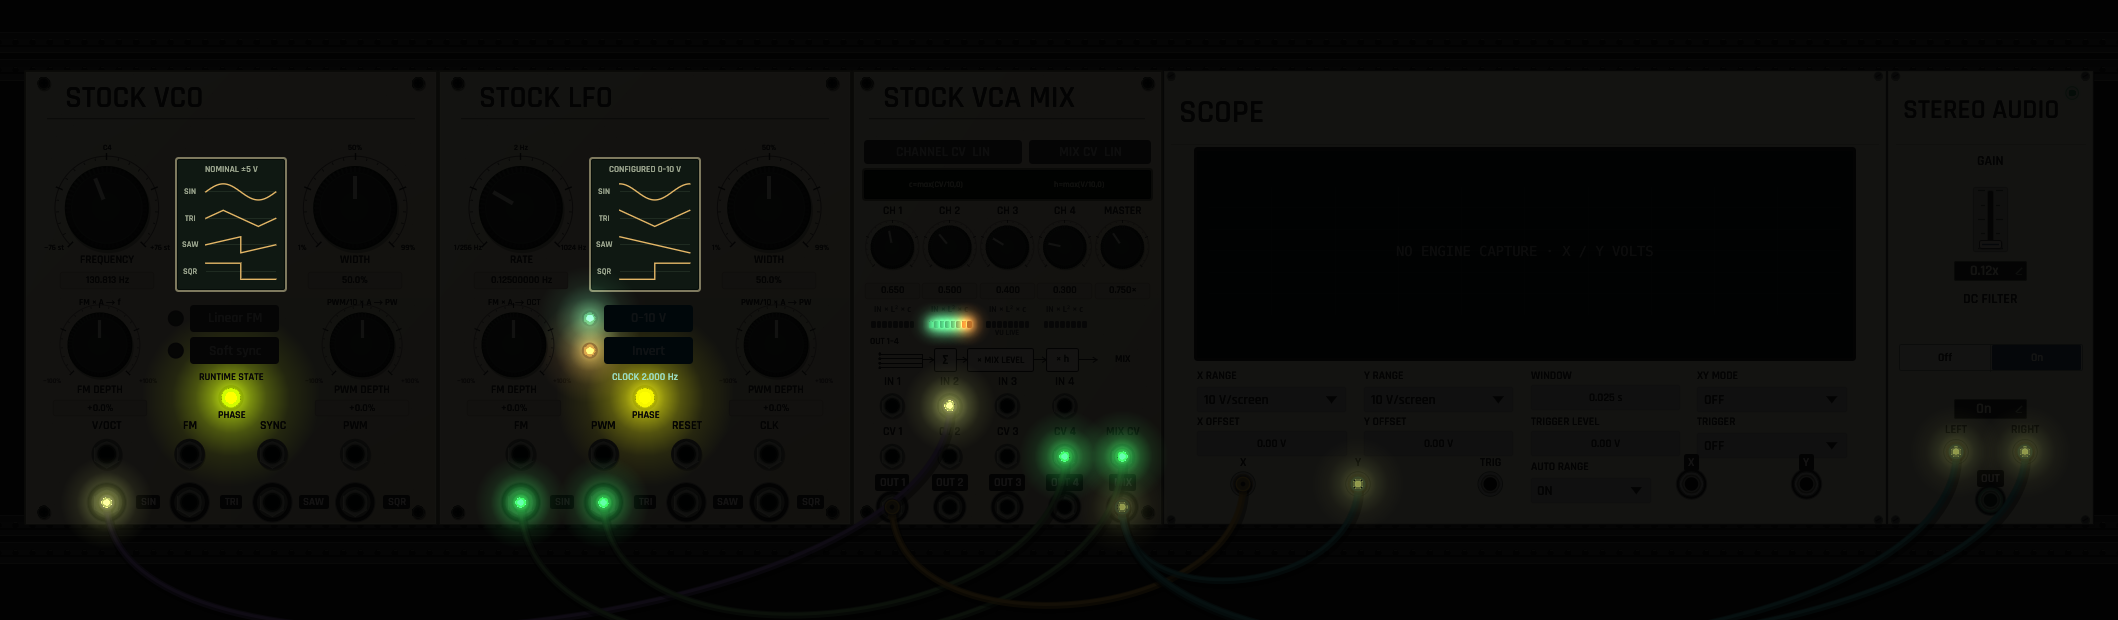
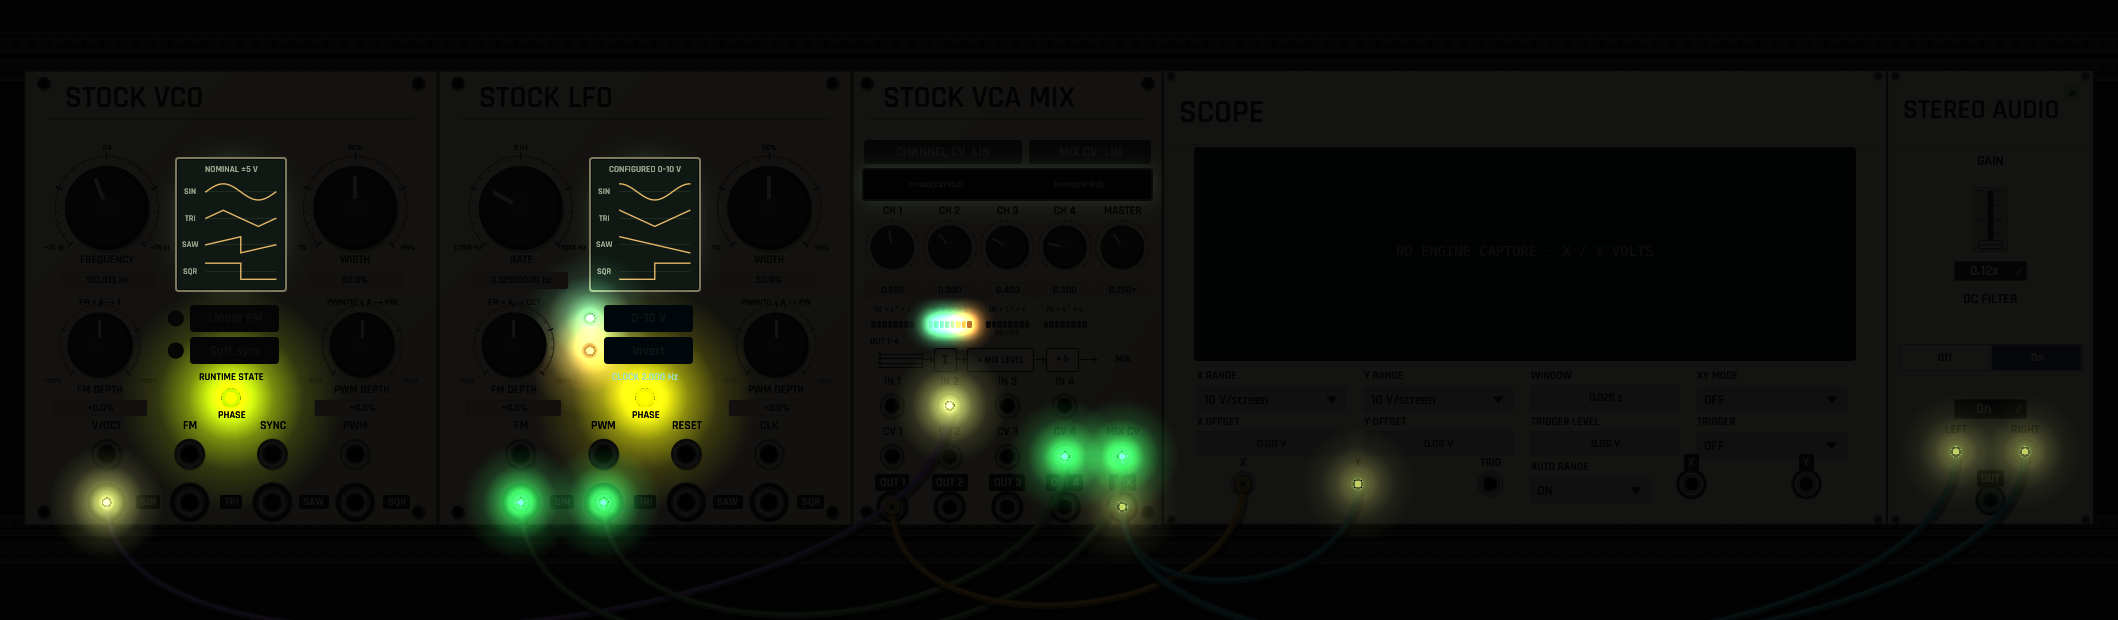
Enrich lights-off glow for module lamps and displays

diff --git a/crates/openpatch-desktop/src/lighting.rs b/crates/openpatch-desktop/src/lighting.rs
@@ -120,11 +120,31 @@ impl Default for RoomLighting {
 impl RoomLighting {
     fn bloom_amount(&self) -> f32 {
         // Keep daytime lamps restrained; a dark room reveals their light spill.
-        0.38 + 1.22 * (1.0 - self.amount).powf(1.5)
+        0.38 + 2.62 * (1.0 - self.amount).powf(1.5)
     }
 
     fn bloom_diffusion(&self) -> f32 {
-        1.0 + 0.65 * (1.0 - self.amount).powf(1.5)
+        1.0 + 1.15 * (1.0 - self.amount).powf(1.5)
+    }
+
+    /// Static display illumination, distinct from signal-driven lamps. The
+    /// halo is bounded in screen points, so wide displays do not wash out a rack.
+    pub(crate) fn screen_glow(&self, painter: &egui::Painter, rect: Rect, zoom: f32) {
+        let start = next(painter);
+        let corner = (rect.width().min(rect.height()) * 0.5).max(1.0);
+        let dark = (1.0 - self.amount).powf(1.5);
+        bloom(
+            painter,
+            rect,
+            Color32::from_rgb(104, 155, 119),
+            0.035 + 0.30 * dark,
+            (1.5 + 3.5 * dark) * zoom / corner,
+        );
+        self.preserve(painter, start);
+    }
+
+    pub(crate) fn setting_glow(&self, color: Color32, strength: f32) -> Color32 {
+        additive(color, strength * self.bloom_amount())
     }
 
     pub(crate) fn amount(&self) -> f32 {
@@ -413,6 +433,43 @@ mod tests {
             assert!(room_energy[1][light] > room_energy[0][light]);
             assert!(room_extent[2][light] > room_extent[1][light]);
             assert!(room_extent[1][light] > room_extent[0][light]);
+        }
+    }
+
+    #[test]
+    fn screen_spill_is_bounded_preserved_and_stronger_in_a_dark_room() {
+        for size in [vec2(290.0, 49.0), vec2(100.0, 240.0), vec2(250.0, 25.0)] {
+            let mut energy = Vec::new();
+            for room in [1.0, 0.0] {
+                let ctx = egui::Context::default();
+                let mut lighting = RoomLighting::default();
+                lighting.set(room);
+                let rect = Rect::from_min_size(Pos2::ZERO, size);
+                let output = ctx.run(egui::RawInput::default(), |ctx| {
+                    let painter = ctx.layer_painter(egui::LayerId::background());
+                    let start = lighting.begin(&painter);
+                    lighting.screen_glow(&painter, rect, 1.0);
+                    lighting.finish(&painter, start);
+                });
+                let egui::Shape::Mesh(mesh) = &output.shapes[0].shape else {
+                    panic!("display halo must be one bounded mesh")
+                };
+                assert_eq!(mesh.vertices.len(), 120);
+                assert!(mesh.vertices.iter().all(|v| v.color.a() == 0));
+                let bounds = mesh.calc_bounds();
+                assert!(bounds.width() <= size.x + 52.1);
+                assert!(bounds.height() <= size.y + 52.1);
+                energy.push(
+                    mesh.vertices
+                        .iter()
+                        .map(|v| u32::from(v.color.g()))
+                        .sum::<u32>(),
+                );
+            }
+            assert!(
+                energy[1] > energy[0] * 4,
+                "room-off screen spill must stay visible"
+            );
         }
     }
 

diff --git a/crates/openpatch-desktop/src/rack.rs b/crates/openpatch-desktop/src/rack.rs
@@ -14047,6 +14047,14 @@ mod tests {
                             texts.iter().any(|(text, _)| text
                                 == if kind == "ladder_vcf" && name == "cutoff" {
                                     "POLE FREQUENCY"
+                                } else if matches!(kind, "multi_vco" | "multi_lfo")
+                                    && name == "fm_amount"
+                                {
+                                    "FM ±100%"
+                                } else if matches!(kind, "multi_vco" | "multi_lfo")
+                                    && name == "pwm_amount"
+                                {
+                                    "PWM ±100%"
                                 } else if kind == "stock_vco" {
                                     stock_vco_parameter_label(name)
                                 } else if kind == "stock_lfo" {
@@ -14251,10 +14259,10 @@ mod tests {
     #[test]
     fn multi_vco_value_editors_use_hz_and_percentages_without_clock_ratio_conversion() {
         for (name, position, text, scale, expected) in [
-            ("frequency", pos2(99.0, 169.0), "440", 1.0, 440.0),
-            ("pulse_width", pos2(249.0, 169.0), "35", 100.0, 0.35),
-            ("fm_amount", pos2(99.0, 269.0), "-25", 100.0, -0.25),
-            ("pwm_amount", pos2(249.0, 269.0), "75", 100.0, 0.75),
+            ("frequency", pos2(99.0, 186.0), "440", 1.0, 440.0),
+            ("pulse_width", pos2(249.0, 186.0), "35", 100.0, 0.35),
+            ("fm_amount", pos2(99.0, 281.0), "-25", 100.0, -0.25),
+            ("pwm_amount", pos2(249.0, 281.0), "75", 100.0, 0.75),
         ] {
             let ctx = egui::Context::default();
             let mut rack = Rack::default();
@@ -18174,7 +18182,7 @@ mod tests {
                 });
             }
             frame(&ctx, &mut rack, &patch, 0.0, vec![]);
-            let value = pos2(99.0, 169.0);
+            let value = pos2(99.0, 186.0);
             for (time, pressed) in [(1.0, true), (1.04, false)] {
                 frame(
                     &ctx,
@@ -20028,7 +20036,7 @@ mod tests {
             ),
             (
                 "multi_vco",
-                pos2(249.0, 169.0),
+                pos2(249.0, 186.0),
                 "25 + 10",
                 "pulse_width",
                 0.35,
@@ -20044,7 +20052,7 @@ mod tests {
             ),
             (
                 "multi_lfo",
-                pos2(99.0, 169.0),
+                pos2(99.0, 186.0),
                 "1 + 1",
                 "frequency",
                 4.0,

diff --git a/crates/openpatch-desktop/src/atlas_voice_panel.rs b/crates/openpatch-desktop/src/atlas_voice_panel.rs
@@ -136,7 +136,8 @@ impl AtlasVoicePaint<'_> {
             }
         }
     }
-    fn screen(&self, rect: Rect) {
+    fn screen(&self, rect: Rect, lighting: &crate::lighting::RoomLighting) {
+        lighting.screen_glow(self.painter, rect, self.zoom);
         self.painter.rect_filled(
             rect.expand(3.0 * self.unit()),
             4.0 * self.unit(),
@@ -531,7 +532,7 @@ fn paint_atlas_voice_configuration(
     let amber = Color32::from_rgb(229, 183, 103);
     let start = crate::lighting::next(painter);
     if node.kind == "adsr" {
-        draw.screen(draw.rect(160.0, 148.0, 100.0, 239.0));
+        draw.screen(draw.rect(160.0, 148.0, 100.0, 239.0), lighting);
         draw.text(210.0, 168.0, "ENVELOPE", 9.0, screen_ink);
         draw.text(210.0, 182.0, "CONFIGURED", 8.0, quiet);
         draw.text(181.0, 205.0, "10 V", 8.0, quiet);
@@ -559,7 +560,7 @@ fn paint_atlas_voice_configuration(
         draw.text(210.0, 345.0, "A · D · S · R", 9.0, screen_ink);
         draw.text(210.0, 364.0, "0–10 V NOMINAL", 8.0, quiet);
     } else {
-        draw.screen(draw.rect(245.0, 109.0, 136.0, 164.0));
+        draw.screen(draw.rect(245.0, 109.0, 136.0, 164.0), lighting);
         draw.text(313.0, 127.0, "SMALL SIGNAL", 9.0, screen_ink);
         draw.text(
             313.0,

diff --git a/crates/openpatch-desktop/src/atlas_analog_panels.rs b/crates/openpatch-desktop/src/atlas_analog_panels.rs
@@ -28,7 +28,7 @@ fn paint_atlas_analog_configuration(
     let amber = Color32::from_rgb(229, 183, 103);
     let start = crate::lighting::next(painter);
     if node.kind == "analog_vco" {
-        draw.screen(draw.rect(245.0, 109.0, 136.0, 164.0));
+        draw.screen(draw.rect(245.0, 109.0, 136.0, 164.0), lighting);
         draw.text(313.0, 127.0, "NOMINAL SHAPE", 9.0, ink);
         draw.text(313.0, 142.0, "±5 V · ONE CYCLE", 8.0, quiet);
         for y in [175.0, 201.0, 227.0] {
@@ -59,7 +59,7 @@ fn paint_atlas_analog_configuration(
         };
         draw.text(313.0, 252.0, &period, 8.0, quiet);
     } else {
-        draw.screen(draw.rect(38.0, 345.0, 344.0, 112.0));
+        draw.screen(draw.rect(38.0, 345.0, 344.0, 112.0), lighting);
         draw.text(210.0, 358.0, "DC TRANSFER · CV 10 V · 25°C", 12.0, ink);
         for y in [380.0, 408.0, 436.0] {
             painter.line_segment(

diff --git a/crates/openpatch-desktop/src/atlas_utility_panels.rs b/crates/openpatch-desktop/src/atlas_utility_panels.rs
@@ -68,7 +68,7 @@ fn paint_atlas_utility_configuration(
     let amber = Color32::from_rgb(229, 183, 103);
     let start = crate::lighting::next(painter);
     if node.kind == "lfo" {
-        draw.screen(draw.rect(245.0, 109.0, 136.0, 164.0));
+        draw.screen(draw.rect(245.0, 109.0, 136.0, 164.0), lighting);
         draw.text(313.0, 127.0, "CONFIGURED SINE", 9.0, ink);
         draw.text(313.0, 142.0, "AUTO FIT · ZERO FM", 8.0, quiet);
         let amplitude = atlas_voice_parameter(node, "amplitude", 0.5, 0.0, 1.0);
@@ -119,7 +119,7 @@ fn paint_atlas_utility_configuration(
         };
         draw.text(313.0, 263.0, &period, 8.0, quiet);
     } else {
-        draw.screen(draw.rect(38.0, 345.0, 344.0, 112.0));
+        draw.screen(draw.rect(38.0, 345.0, 344.0, 112.0), lighting);
         let lowpass = node.kind == "lowpass";
         draw.text(
             210.0,

diff --git a/crates/openpatch-desktop/src/panel_skin.rs b/crates/openpatch-desktop/src/panel_skin.rs
@@ -387,8 +387,14 @@ pub(crate) fn parameter_rotary(
             center + vec2(b.cos(), b.sin()) * ring,
         ];
         if t <= value {
-            painter.line_segment(points, Stroke::new(4.8 * zoom, accent.gamma_multiply(0.09)));
-            painter.line_segment(points, Stroke::new(2.6 * zoom, accent.gamma_multiply(0.32)));
+            painter.line_segment(
+                points,
+                Stroke::new(9.0 * zoom, lighting.setting_glow(accent, 0.07)),
+            );
+            painter.line_segment(
+                points,
+                Stroke::new(5.0 * zoom, lighting.setting_glow(accent, 0.22)),
+            );
             painter.line_segment(points, Stroke::new(1.35 * zoom, accent));
         } else {
             painter.line_segment(points, Stroke::new(1.1 * zoom, muted));

diff --git a/crates/openpatch-desktop/src/stock_vca_panel.rs b/crates/openpatch-desktop/src/stock_vca_panel.rs
@@ -190,10 +190,10 @@ impl Rack {
             layout: AtlasVoiceLayout { width: 180.0 },
             zoom: z,
         };
-        draw.screen(screen(Rect::from_min_max(
-            pos2(26.0, 245.0),
-            pos2(154.0, 293.0),
-        )));
+        draw.screen(
+            screen(Rect::from_min_max(pos2(26.0, 245.0), pos2(154.0, 293.0))),
+            &self.lighting,
+        );
         for channel in 0..16 {
             let lane = screen(stock_vca_gain_rect(channel));
             let active = state.is_some_and(|s| channel < usize::from(s.input_channels.unwrap()));

diff --git a/crates/openpatch-desktop/src/panel_toggle_scale_tests.rs b/crates/openpatch-desktop/src/panel_toggle_scale_tests.rs
@@ -85,8 +85,8 @@ fn saved_mode_labels_stay_single_line_inside_their_scaled_controls() {
         let _ = paint(0.0);
         let output = paint(0.1);
         for (node_index, x, y, label) in [
-            (0, 20.0, 279.0, "LFM"),
-            (0, 155.0, 279.0, "SOFT"),
+            (0, 20.0, 279.0, "Linear FM"),
+            (0, 155.0, 279.0, "Soft sync"),
             (1, 20.0, 279.0, "±5 V"),
             (1, 155.0, 279.0, "Invert"),
             (2, 20.0, 199.0, "Average"),

diff --git a/crates/openpatch-desktop/src/stock_vca_mix_panel.rs b/crates/openpatch-desktop/src/stock_vca_mix_panel.rs
@@ -235,10 +235,10 @@ impl Rack {
             },
             zoom: z,
         };
-        screen_paint.screen(screen(Rect::from_min_max(
-            pos2(10.0, 87.0),
-            pos2(260.0, 112.0),
-        )));
+        screen_paint.screen(
+            screen(Rect::from_min_max(pos2(10.0, 87.0), pos2(260.0, 112.0))),
+            &self.lighting,
+        );
         let screen_ink = Color32::from_rgb(195, 200, 180);
         painter.text(
             point(73.0, 99.5),

diff --git a/crates/openpatch-desktop/src/library_zoom_host_tests.rs b/crates/openpatch-desktop/src/library_zoom_host_tests.rs
@@ -409,7 +409,7 @@ fn appended_zoom_and_small_label_scenes_use_actual_panels_and_request_five_new_r
         ["multi_vco", "multi_lfo", "mix6", "audio_stereo"]
     );
     let small_labels = frame(&ctx, &mut app, 0.6, vec![], true);
-    for label in ["LFM", "SOFT", "Average", "Invert"] {
+    for label in ["Linear FM", "Soft sync", "Average", "Invert"] {
         text(&small_labels, label, false);
     }
     for logical in [1978, 1994, 2010, 2026, 2042] {

diff --git a/crates/openpatch-desktop/src/lighting_ui_tests.rs b/crates/openpatch-desktop/src/lighting_ui_tests.rs
@@ -302,7 +302,7 @@ fn darkroom_numeric_editor_and_selection_remain_readable_and_controls_keep_targe
         let mut rack = Rack::default();
         rack.set_room_brightness(amount);
         frame(&ctx, &mut rack, &patch, 0.0, vec![]);
-        let field = pos2(99.0, 169.0);
+        let field = pos2(24.0, 12.0) + atlas_multi_value_center("frequency").to_vec2();
         frame(
             &ctx,
             &mut rack,

diff --git a/crates/openpatch-desktop/src/adsr_eg_panel.rs b/crates/openpatch-desktop/src/adsr_eg_panel.rs
@@ -104,7 +104,10 @@ fn paint_adsr_eg_guide(
     };
     let sx = 420.0 / layout.width;
     let sy = 720.0 / PANEL_HEIGHT;
-    draw.screen(draw.rect(32.0 * sx, 77.0 * sy, 296.0 * sx, 49.5 * sy));
+    draw.screen(
+        draw.rect(32.0 * sx, 77.0 * sy, 296.0 * sx, 49.5 * sy),
+        lighting,
+    );
     let screen_rect = Rect::from_min_max(p(32.0, 77.0), p(328.0, 126.5));
     ui.interact(
         screen_rect,
